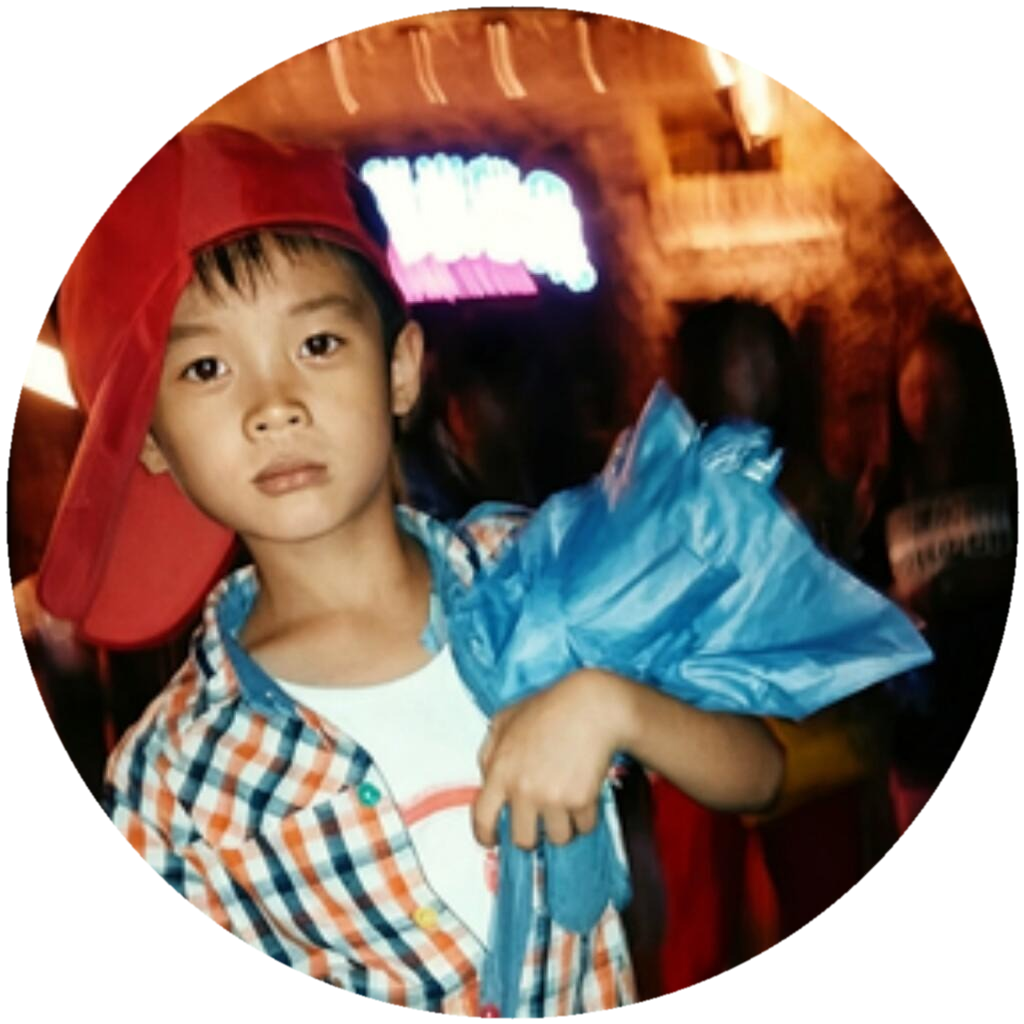
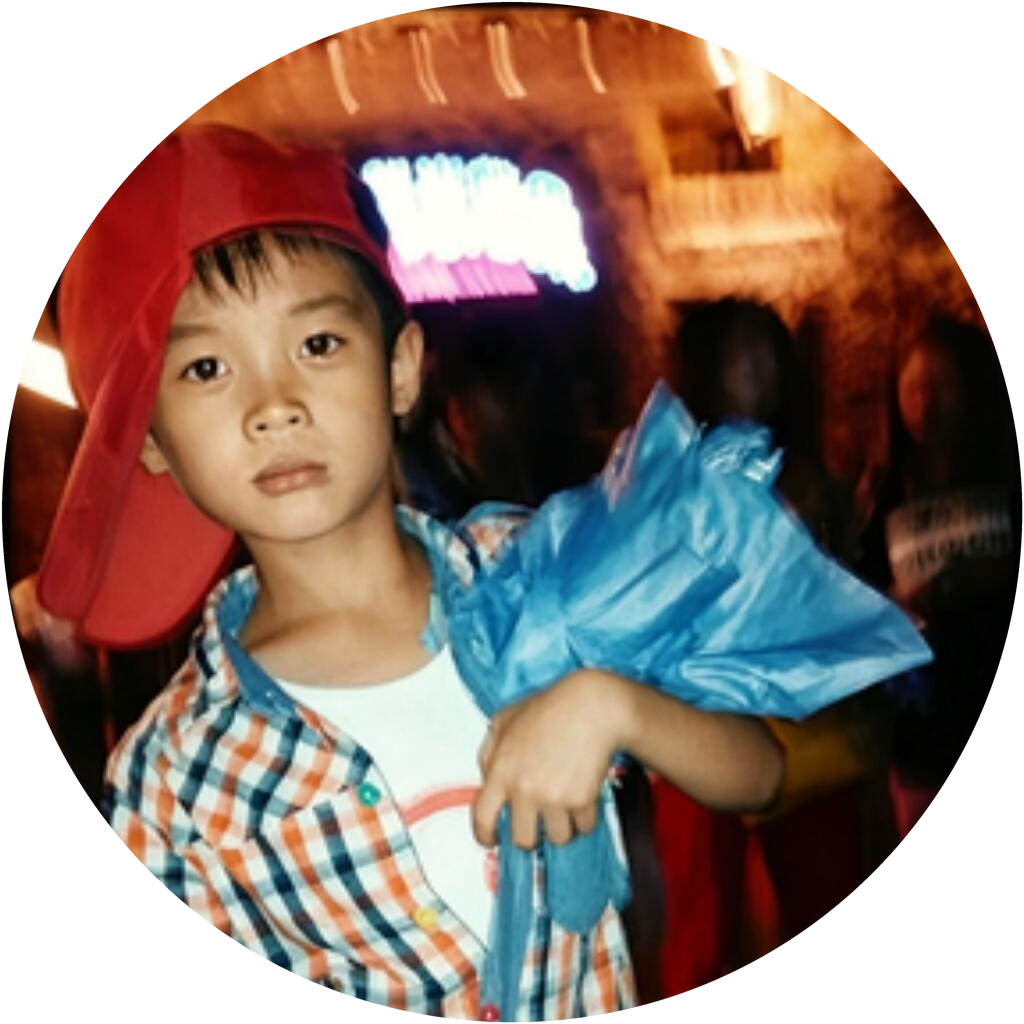
feat(brand): 替换为真实原色经典童年红帽头像，重构书架评语为实用主义成长心得

diff --git a/lib/personal.ts b/lib/personal.ts
@@ -240,8 +240,8 @@ export const books: Book[] = [
     coverHeight: 1503,
     spine: 28,
     url: 'https://z-library.sk/s/%E5%8F%B2%E8%92%82%E5%A4%AB%C2%B7%E4%B9%94%E5%B8%83%E6%96%AF%E4%BC%A0',
-    comment: '活着就是为了改变世界。站在科技与人文艺术的十字路口，追求纯粹极致的产品美学。',
-    commentEn: 'Put a ding in the universe. Stand at the intersection of technology and the humanities.',
+    comment: '把产品当作品做。打动我的不是改变世界的大话，而是连机箱里面看不见的走线都要规整——凡是交付给别人的东西，自己得先看得起。',
+    commentEn: 'Treat products as craft. What struck me wasn\'t grand slogans, but making even unseen internal wiring tidy—if you ship it, respect your own craft first.',
   },
   {
     title: '原则',
@@ -258,8 +258,8 @@ export const books: Book[] = [
     coverHeight: 2048,
     spine: 26,
     url: 'https://z-library.sk/s/%E5%8E%9F%E5%88%99',
-    comment: '痛苦 + 反思 = 进步。极度求真、极度透明，用机械化系统的思维应对现实挑战。',
-    commentEn: 'Pain + Reflection = Progress. Radical truth and radical transparency through systemic thinking.',
+    comment: '做事情最怕掩耳盗铃。把碰到的每次翻车、每次卡住都当成机器里的齿轮故障，写成复盘清单。机器坏了修机器，别陷入情绪内耗。',
+    commentEn: 'Don\'t deceive yourself. Treat every failure or bottleneck as a mechanical glitch to log and fix, rather than wallowing in emotional exhaustion.',
   },
   {
     title: '思考，快与慢',
@@ -276,8 +276,8 @@ export const books: Book[] = [
     coverHeight: 1024,
     spine: 24,
     url: 'https://z-library.sk/s/%E6%80%9D%E8%80%83%EF%BC%8C%E5%BF%AB%E4%B8%8E%E6%85%A2',
-    comment: '警惕快系统直觉的启发式偏误，学会主动调用慢系统进行深度理性复盘。',
-    commentEn: 'Beware the heuristic bias of System 1; actively recruit System 2 for deliberate analysis.',
+    comment: '直觉往往让人急于求成、浮于表面。每次觉得“稳了”或者“做不到”时，停下来强迫自己把逻辑步长拆细，看看到底卡在哪一步。',
+    commentEn: 'Intuition often makes us rush into shallow assumptions. Whenever I feel "done" or "hopeless", I force myself to slow down and trace the exact breakdown step by step.',
   },
   {
     title: '价值心法',
@@ -294,8 +294,8 @@ export const books: Book[] = [
     coverHeight: 800,
     spine: 22,
     url: 'https://z-library.sk/s/%E4%BB%B7%E5%80%BC%E5%BF%83%E6%B3%95',
-    comment: '商业竞争的底层是认知穿透与价值创造，守住根本，耐心做时间的朋友。',
-    commentEn: 'Underlying all business is cognitive clarity and genuine value creation. Be a friend of time.',
+    comment: '江湖老师教的五环闭环：需求、供给、触达、交换、反馈。没有解决真实需求，再花哨的技术也是空中楼阁；一次解决一个真问题，交付物才是硬道理。',
+    commentEn: 'The five-loop closed loop from Jianghu: demand, supply, outreach, exchange, feedback. Tech is meaningless without real problems; deliver tangible value every single time.',
   },
   {
     title: '纳瓦尔宝典',
@@ -312,8 +312,8 @@ export const books: Book[] = [
     coverHeight: 800,
     spine: 22,
     url: 'https://z-library.sk/s/%E7%BA%B3%E7%93%A6%E5%B0%94%E5%AE%9D%E5%85%B8',
-    comment: '培养专属知识，利用代码与媒体杠杆，构建边际成本为零的确定性认知资产。',
-    commentEn: 'Build specific knowledge, apply leverage via code and media, and compound cognitive assets.',
+    comment: '专科生没有耀眼的背书，但可以用代码和内容做杠杆。打造属于自己的独到经验，公开构建、真实记录，让每一次自学都有迹可循。',
+    commentEn: 'Without elite credentials, code and content are our levers. Build unique insights, build in public, and ensure every self-taught milestone leaves verifiable proof.',
   },
   {
     title: '富兰克林自传',
@@ -330,8 +330,8 @@ export const books: Book[] = [
     coverHeight: 800,
     spine: 24,
     url: 'https://z-library.sk/s/%E5%AF%8C%E5%85%B0%E5%85%8B%E6%9E%97%E8%87%AA%E4%BC%A0',
-    comment: '以十三项品德修养日日自省自新，自律自强成就非凡一生的终身学习典范。',
-    commentEn: 'A daily ledger of thirteen virtues; lifelong self-directed learning forging a quiet master.',
+    comment: '一个印刷学徒凭着自学日积月累改变命运。他的美德清单本质就是可落地的日常自律系统——不画大饼，把手头每件小事踏踏实实做周全。',
+    commentEn: 'A printer\'s apprentice who transformed his destiny through self-study. His virtue ledger is a daily operating system—no empty promises, just steady craftsmanship.',
   },
   {
     title: '穷查理宝典',
@@ -348,8 +348,8 @@ export const books: Book[] = [
     coverHeight: 1819,
     spine: 28,
     url: 'https://z-library.sk/s/%E7%A9%B7%E6%9F%A5%E7%90%86%E5%AE%9D%E5%85%B8',
-    comment: '多元思维模型格栅，倒过来想，总是倒过来想；避开显而易见的愚蠢，智慧自然涌现。',
-    commentEn: 'A latticework of mental models. Invert, always invert; avoid obvious stupidity.',
+    comment: '想明白怎么做之前，先列出怎么做一定会完蛋。避开偷懒、浮躁和装懂这些显而易见的大坑，脚踏实地走稳每一步，路就走对了。',
+    commentEn: 'Before figuring out success, list what guarantees disaster. Invert the problem, avoid laziness and pretense, and progress takes care of itself.',
   },
   {
     title: '刻意练习',
@@ -366,7 +366,7 @@ export const books: Book[] = [
     coverHeight: 1024,
     spine: 24,
     url: 'https://z-library.sk/s/%E5%88%BB%E6%84%8F%E7%BB%83%E4%B9%A0',
-    comment: '走出舒适区，建立精细心理表征与即时反馈回路，任何卓越技能皆可后天习得。',
-    commentEn: 'Step out of the comfort zone; construct mental representations and feedback loops.',
+    comment: '自学不是漫无目的地看视频刷教程，而是给自己设计明确的靶子，做完立刻看结果对不对。在拉伸区反复碰壁、校准，能力才能真正长在身上。',
+    commentEn: 'Self-learning isn\'t passively watching tutorials. It\'s aiming at concrete targets, getting immediate feedback, and stretching outside comfort until skills stick.',
   },
 ]
